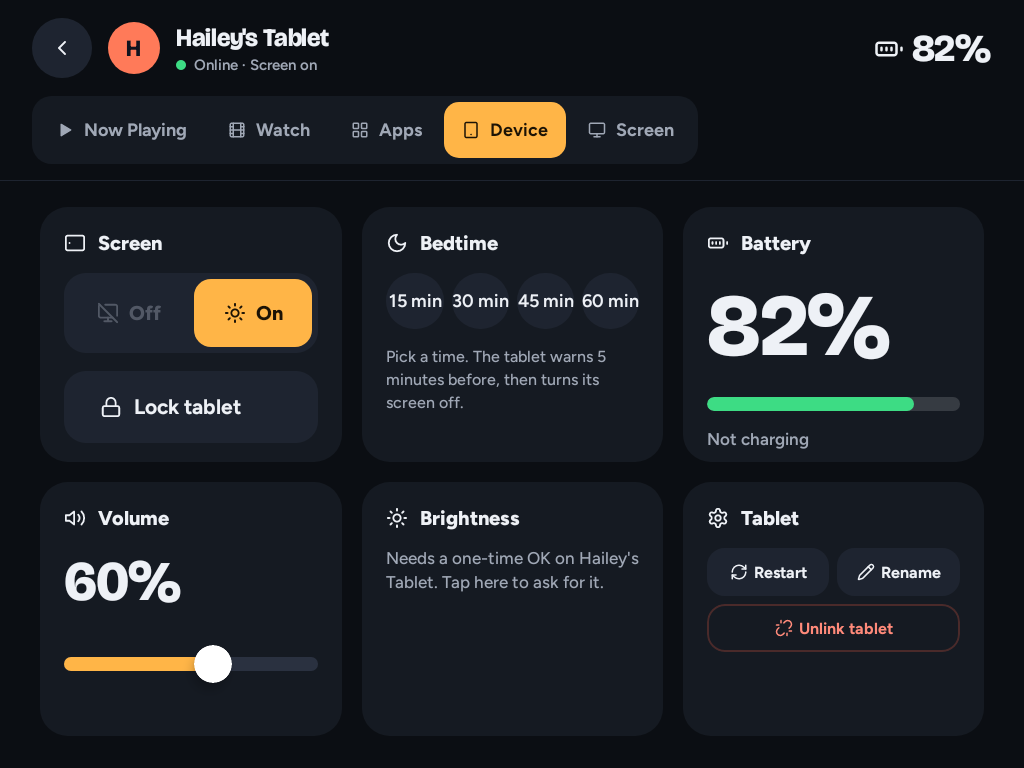
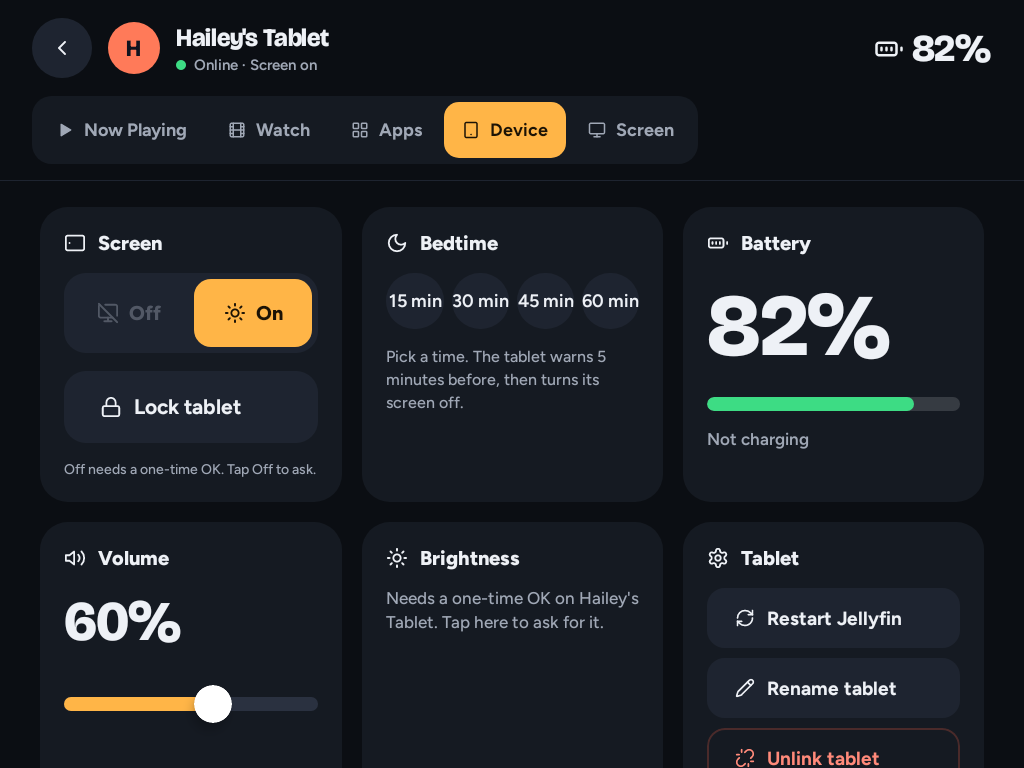
Device tab: cards grow to fit their content, page scrolls; Lock to landscape and touch lock fit with every feature on
Written by claude2 (the label shortened by the foreman), committed by the foreman.

diff --git a/app/src/main/java/com/nbaltas/nickos/ui/master/Control.kt b/app/src/main/java/com/nbaltas/nickos/ui/master/Control.kt
@@ -15,6 +15,7 @@ import androidx.compose.foundation.layout.fillMaxSize
 import androidx.compose.foundation.layout.fillMaxWidth
 import androidx.compose.foundation.layout.height
 import androidx.compose.foundation.layout.heightIn
+import androidx.compose.foundation.layout.IntrinsicSize
 import androidx.compose.foundation.layout.padding
 import androidx.compose.foundation.layout.size
 import androidx.compose.foundation.layout.width
@@ -559,22 +560,21 @@ private fun DeviceTab(v: NodeView, onUnlinked: () -> Unit) {
         val cardH: Dp = if (cols == 3) (maxHeight - 26.dp - 32.dp - gap) / 2 else 300.dp
         val cards: List<@Composable (Modifier) -> Unit> = listOf(
             { mod ->
-                DeviceCard(mod, Lucide.Tablet, "Screen", rotateIcon = true, spacing = if (cols > 1 && st?.supportsTouch == true) 8.dp else 18.dp) {
-                    val compactTouch = cols > 1 && st?.supportsTouch == true
+                DeviceCard(mod, Lucide.Tablet, "Screen", rotateIcon = true) {
                     Row(Modifier.fillMaxWidth().clip(RoundedCornerShape(22.dp)).background(C.surface2).padding(6.dp), horizontalArrangement = Arrangement.spacedBy(6.dp)) {
                         val on = st?.screenOn != false
-                        SegBtn(Lucide.MonitorOff, "Off", !on, Modifier.weight(1f), dim = st?.screenOffOk == false, height = if (compactTouch) 48.dp else 68.dp) {
+                        SegBtn(Lucide.MonitorOff, "Off", !on, Modifier.weight(1f), dim = st?.screenOffOk == false) {
                             if (st?.screenOffOk == false) m.askPermission(v.node.id) else m.screen(v.node.id, false)
                         }
-                        SegBtn(Lucide.Sun, "On", on, Modifier.weight(1f), height = if (compactTouch) 48.dp else 68.dp) { m.screen(v.node.id, true) }
+                        SegBtn(Lucide.Sun, "On", on, Modifier.weight(1f)) { m.screen(v.node.id, true) }
                     }
                     if (st?.lockedBy != null) NickButton("Unlock tablet", { m.lock(v.node.id, false) }, Modifier.fillMaxWidth(), BtnStyle.PRIMARY, big = true, leading = Lucide.LockOpen)
-                    else NickButton("Lock tablet now", { m.lock(v.node.id, true) }, Modifier.fillMaxWidth().then(if (cols > 1 && st?.supportsTouch == true) Modifier.height(48.dp) else Modifier), big = !compactTouch, leading = Lucide.Lock)
+                    else NickButton("Lock tablet now", { m.lock(v.node.id, true) }, Modifier.fillMaxWidth(), big = true, leading = Lucide.Lock)
                     // Hidden when the Node does not have the touch1 capability.
-                    if (st?.supportsTouch == true) TouchSwitchRow(v, st.touch, st.overlay, m, compact = compactTouch)
+                    if (st?.supportsTouch == true) TouchSwitchRow(v, st.touch, st.overlay, m)
                     // An old Node has no "ring1": no button.
                     if (st?.supportsRing == true) RingButton(st.ringing) { m.ring(v.node.id, !st.ringing) }
-                    // One short line under Lock, so Lock is never pushed out of the card.
+                    // One short line under Lock.
                     if (st?.screenOffOk == false) {
                         val asked = askedLine(v)
                         if (asked != null) Text(asked, style = body(14.sp, 700), color = C.accent, maxLines = 2)
@@ -589,7 +589,7 @@ private fun DeviceTab(v: NodeView, onUnlinked: () -> Unit) {
                             NickButton("Lock now", { m.home(v.node.id) }, Modifier.fillMaxWidth(), BtnStyle.DANGER)
                         } else if (st.control != RemoteMessages.CONTROL_READY) {
                             Text("Touch control: off", style = body(14.sp, 700), color = C.danger, maxLines = 2)
-                            NickButton("Open setting on ${v.node.name}", { m.askControl(v.node.id) }, Modifier.fillMaxWidth())
+                            NickButton("Open setting on tablet", { m.askControl(v.node.id) }, Modifier.fillMaxWidth())
                         }
                     }
                 }
@@ -639,15 +639,10 @@ private fun DeviceTab(v: NodeView, onUnlinked: () -> Unit) {
                             if (confirmUnlink) { m.unlink(v.node.id); onUnlinked() } else confirmUnlink = true
                         }
                     }
-                    // The cards are about 217dp tall on a 1024x768 or 960x600 tablet: three full buttons did not fit and
-                    // Unlink was cut off. Short cards put Restart and Rename side by side.
-                    // The landscape switch makes the card one row taller, so it uses the short layout too.
-                    if (tabletCompact(cardH) || st?.landscape != null) Column(verticalArrangement = Arrangement.spacedBy(8.dp)) {
-                        Row(horizontalArrangement = Arrangement.spacedBy(8.dp)) {
-                            StartButton(Lucide.RefreshCw, "Restart", Modifier.weight(1f), height = 48.dp) { m.restartJellyfin(v.node.id) }
-                            StartButton(Lucide.Pencil, "Rename", Modifier.weight(1f), height = 48.dp) { renaming = true }
-                        }
-                        unlink(48.dp)
+                    Column(verticalArrangement = Arrangement.spacedBy(10.dp)) {
+                        StartButton(Lucide.RefreshCw, "Restart Jellyfin") { m.restartJellyfin(v.node.id) }
+                        StartButton(Lucide.Pencil, "Rename tablet") { renaming = true }
+                        unlink(60.dp)
                         // An old Node does not report it, so there is nothing to switch.
                         st?.landscape?.let { l ->
                             Row(
@@ -660,10 +655,6 @@ private fun DeviceTab(v: NodeView, onUnlinked: () -> Unit) {
                             if (l.lock && l.needsPermission) Text(LandscapePolicy.NEEDS_PERMISSION, style = body(14.sp, 700), color = C.danger)
                             if (l.pending) Text(if (l.lock) LandscapePolicy.PENDING_ON else LandscapePolicy.PENDING_OFF, style = body(14.sp, 700), color = C.danger)
                         }
-                    } else Column(verticalArrangement = Arrangement.spacedBy(10.dp)) {
-                        StartButton(Lucide.RefreshCw, "Restart Jellyfin") { m.restartJellyfin(v.node.id) }
-                        StartButton(Lucide.Pencil, "Rename tablet") { renaming = true }
-                        unlink(60.dp)
                     }
                 }
             },
@@ -674,9 +665,8 @@ private fun DeviceTab(v: NodeView, onUnlinked: () -> Unit) {
             verticalArrangement = Arrangement.spacedBy(gap),
         ) {
             cards.chunked(cols).forEach { row ->
-                // The Touch row makes the Screen card taller: its grid row gets a fixed extra, every card keeps a bounded height.
-                val rowH = if (cols == 1 && st?.supportsTouch == true && row.any { it === cards[0] }) cardH + 64.dp else cardH
-                Row(Modifier.height(rowH), horizontalArrangement = Arrangement.spacedBy(gap)) { row.forEach { it(Modifier.weight(1f).fillMaxHeight()) } }
+                // A row is as tall as its tallest card (never below cardH); a tall row just makes the page scroll.
+                Row(Modifier.height(IntrinsicSize.Min).heightIn(min = cardH), horizontalArrangement = Arrangement.spacedBy(gap)) { row.forEach { it(Modifier.weight(1f).fillMaxHeight()) } }
             }
         }
     }
@@ -735,9 +725,9 @@ internal fun BatteryBody(battery: Int, charging: Boolean, power: NetMessages.Pow
 @Composable
 private fun DeviceCard(
     modifier: Modifier, icon: ImageVector, title: String, rotateIcon: Boolean = false,
-    trailing: @Composable () -> Unit = {}, spacing: Dp = 18.dp, content: @Composable () -> Unit,
+    trailing: @Composable () -> Unit = {}, content: @Composable () -> Unit,
 ) {
-    Column(modifier.clip(RoundedCornerShape(28.dp)).background(C.surface).verticalScroll(rememberScrollState()).padding(24.dp), verticalArrangement = Arrangement.spacedBy(spacing)) {
+    Column(modifier.clip(RoundedCornerShape(28.dp)).background(C.surface).padding(24.dp), verticalArrangement = Arrangement.spacedBy(18.dp)) {
         Row(verticalAlignment = Alignment.CenterVertically, horizontalArrangement = Arrangement.spacedBy(12.dp)) {
             Icon(icon, null, tint = C.text, modifier = Modifier.size(22.dp).then(if (rotateIcon) Modifier.rotate90() else Modifier))
             Text(title, style = body(20.sp, 800), color = C.text, modifier = Modifier.weight(1f))

diff --git a/app/src/test/java/com/nbaltas/nickos/DesignScreensTest.kt b/app/src/test/java/com/nbaltas/nickos/DesignScreensTest.kt
@@ -15,6 +15,8 @@ import androidx.compose.ui.test.onNodeWithTag
 import androidx.compose.ui.test.hasText
 import androidx.compose.ui.test.onRoot
 import androidx.compose.ui.test.performClick
+import androidx.compose.ui.test.performTouchInput
+import androidx.compose.ui.test.swipeUp
 import androidx.compose.ui.Modifier
 import androidx.test.core.app.ApplicationProvider
 import com.github.takahirom.roborazzi.RoborazziOptions
@@ -936,6 +938,42 @@ class DesignScreensTest {
     @Test fun controlDeviceTouchLandscape1024() = deviceTouchLandscape("1024x768")
     @Config(qualifiers = "w960dp-h600dp-land-mdpi")
     @Test fun controlDeviceTouchLandscape960() = deviceTouchLandscape("960x600")
+
+    /** A real 0.12 tablet: ring1, touch1, landscape, power and screen together. Every control must be visible at 1024 and 1280. */
+    private fun deviceAllFeatures(size: String) {
+        val s = status(82, fg = "org.jellyfin.mobile", fgLabel = "Jellyfin", caps = listOf("sync1", "ring1", "pause1", "screen1", "touch1"))
+            .copy(landscape = landscapeOn, touch = com.nbaltas.nickos.link.NetMessages.TouchStatus(true, "on"),
+                power = NetMessages.PowerStatus(true, 5, NetMessages.STATE_NO_PERMISSION))
+        set(app.master, "_status", mapOf("aaaaaaaaaaaa" to s))
+        shot("Control-Device-AllFeatures-$size") { ControlScreen("aaaaaaaaaaaa", TAB_DEVICE, {}, {}, {}) }
+    }
+
+    @Config(qualifiers = "w1024dp-h768dp-land-mdpi")
+    @Test fun controlDeviceAllFeatures1024() = deviceAllFeatures("1024x768")
+    @Config(qualifiers = "w1280dp-h800dp-land-mdpi")
+    @Test fun controlDeviceAllFeatures1280() = deviceAllFeatures("1280x800")
+    @Config(qualifiers = "w960dp-h600dp-land-mdpi")
+    @Test fun controlDeviceAllFeatures960() = deviceAllFeatures("960x600")
+
+    /** The same page scrolled to the bottom: the last row of cards is complete, none is clipped inside. */
+    @OptIn(androidx.compose.ui.test.ExperimentalTestApi::class)
+    @Config(qualifiers = "w1024dp-h768dp-land-mdpi")
+    @Test fun controlDeviceAllFeatures1024Scrolled() {
+        val s = status(82, fg = "org.jellyfin.mobile", fgLabel = "Jellyfin", caps = listOf("sync1", "ring1", "pause1", "screen1", "touch1"))
+            .copy(landscape = landscapeOn, touch = com.nbaltas.nickos.link.NetMessages.TouchStatus(true, "on"),
+                power = NetMessages.PowerStatus(true, 5, NetMessages.STATE_NO_PERMISSION))
+        set(app.master, "_status", mapOf("aaaaaaaaaaaa" to s))
+        androidx.compose.ui.test.runAndroidComposeUiTest<androidx.activity.ComponentActivity> {
+            setContent { NickTheme { Box(Modifier.fillMaxSize().background(C.bg)) { ControlScreen("aaaaaaaaaaaa", TAB_DEVICE, {}, {}, {}) } } }
+            waitForIdle()
+            repeat(3) { onRoot().performTouchInput { swipeUp() } }
+            waitForIdle()
+            onRoot().captureRoboImage(
+                "../design/screens/Control-Device-AllFeatures-1024x768-Scrolled.png",
+                roborazziOptions = RoborazziOptions(compareOptions = RoborazziOptions.CompareOptions(changeThreshold = CHANGE_THRESHOLD)),
+            )
+        }
+    }
 
     private fun nodeMenu() = shot("Node-ParentMenu-${sizeTag()}") {
         com.nbaltas.nickos.ui.node.ParentMenu(onKidMode = {}, onAllApps = {}, onSettings = {}, onPairAnother = {}, onUpdate = {}, onReset = {}, onAllowCamera = {}, onAllowBrightness = {}, onAllowScreenOff = {}, onTalkNotifications = {})
